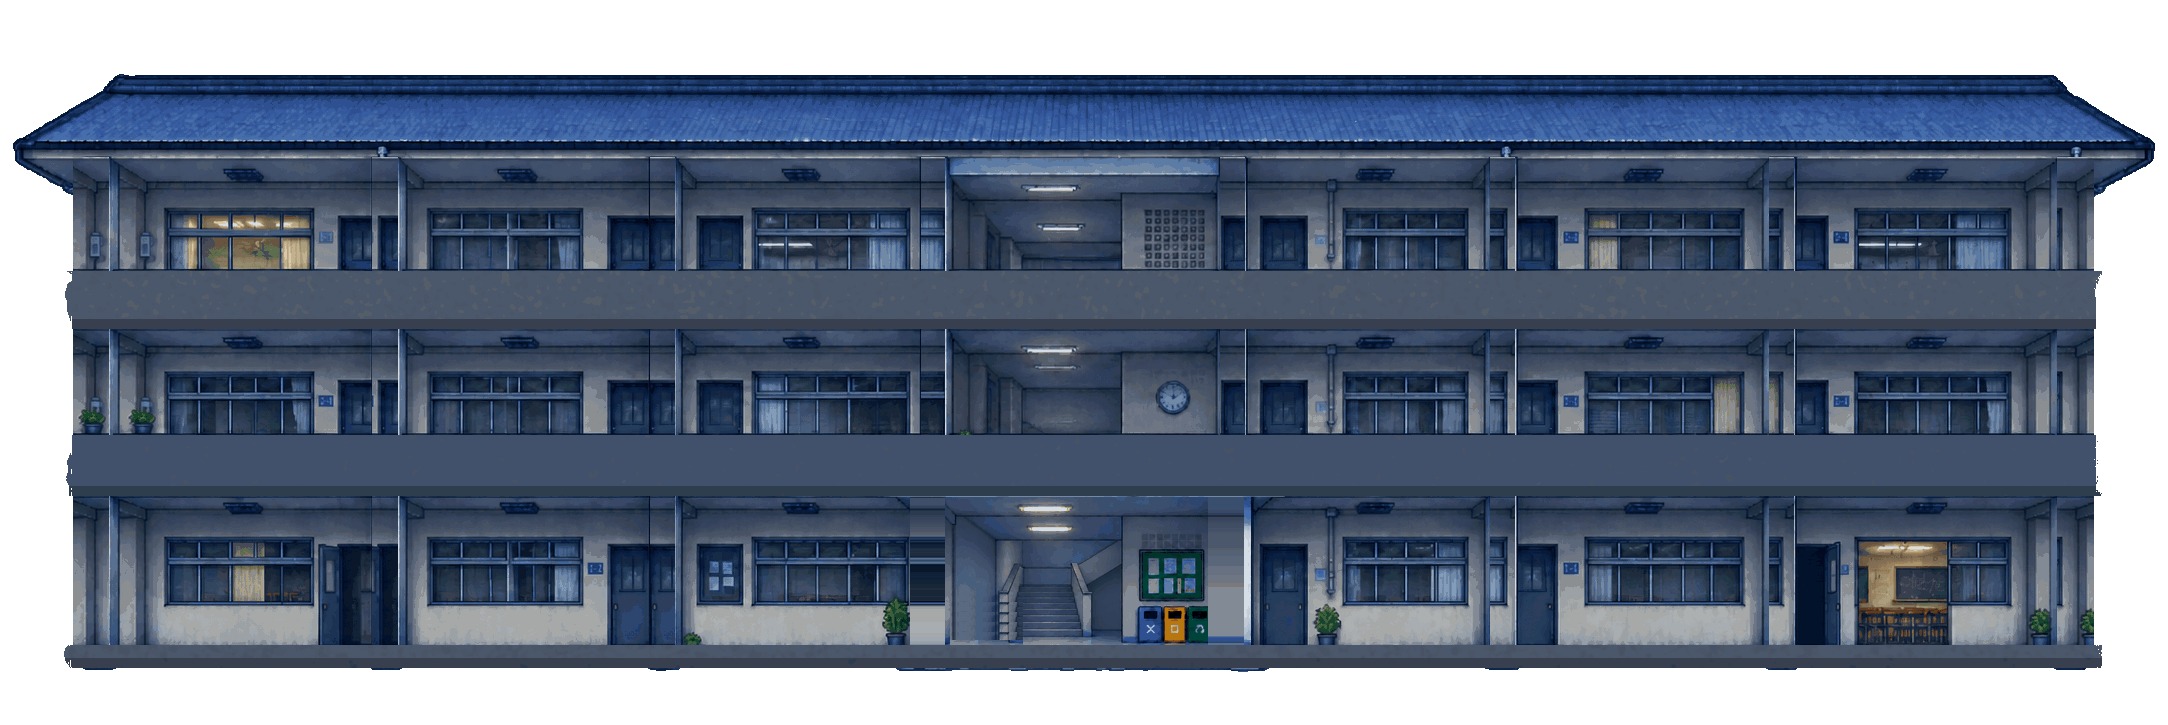
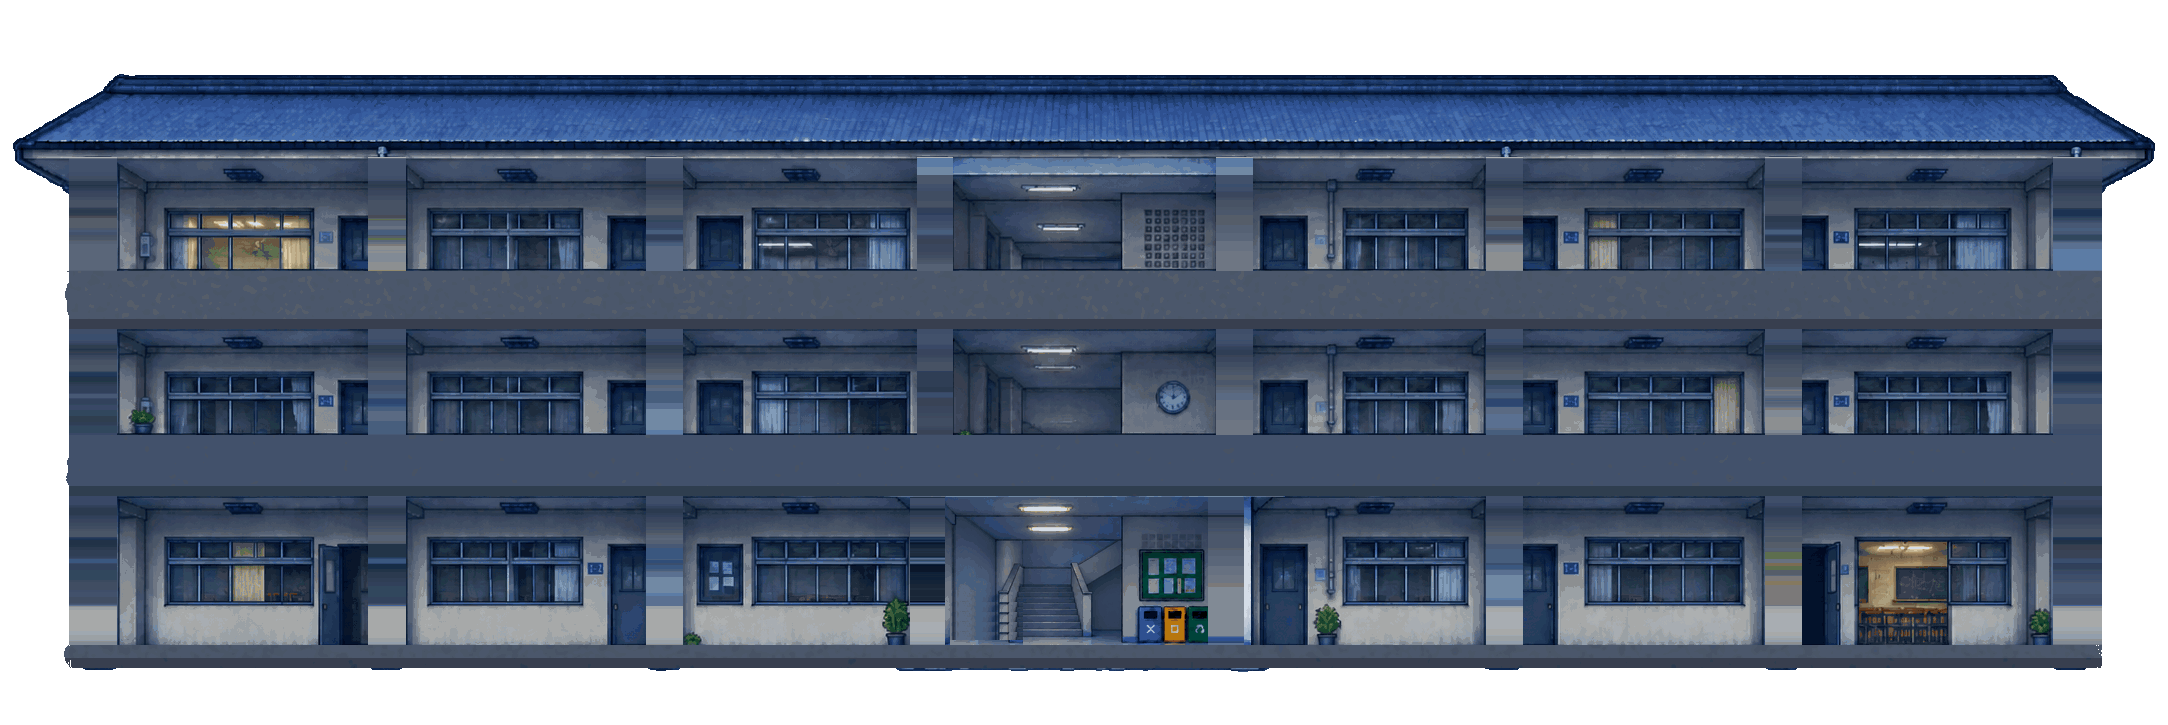
School paint: plain wall behind the pillars
The wall behind each pillar was a copy of the strip beside it, so half
doors, window edges, the downpipe and seam lines showed on the classroom
wall once the pillar stood in front of it. It is now each row's plain
wall (the brighter half of the wall on both sides, median-smoothed),
taken a few pixels wider to drop the pillar's outline and downpipe.

Claude-Session: https://claude.ai/code/session_01CetL5zkYvFPaRRM6Eyxn95

diff --git a/tools/make_building_layers.py b/tools/make_building_layers.py
@@ -85,10 +85,19 @@ def make_palette(img):
 
 
 def fill_from_side(img, x0, x1, y0, y1, side):
-    """Continue the wall beside a narrow box across it (copy the strip next to it, feathered)."""
-    w, gap = x1 - x0, 14                 # skip the corner shading painted right next to the pillar
-    src = img[y0:y1, x0 - w - gap:x0 - gap] if side < 0 else img[y0:y1, x1 + gap:x1 + w + gap]
-    img[y0:y1, x0:x1] = src
+    """Wall behind a pillar: each row is the median of the wall on both sides of it (skipping the
+    corner shading next to the pillar), so no half door, window edge or seam line is copied in."""
+    x0, x1 = x0 - 4, x1 + 8                 # the pillar's outline, edge highlight and downpipe too
+    gap, reach = 12, 90
+    left = img[y0:y1, max(0, x0 - gap - reach):x0 - gap].astype(float)
+    right = img[y0:y1, x1 + gap:x1 + gap + reach].astype(float)
+    band = np.concatenate([left, right], 1)
+    # the plain wall is the brighter half of each row (doors, windows and frames are darker)
+    lum = band[..., :3].mean(2)
+    keep = lum >= np.median(lum, axis=1, keepdims=True)
+    rows = np.array([np.median(band[r][keep[r]], axis=0) for r in range(band.shape[0])])
+    rows = cv2.medianBlur(rows[None].astype(np.uint8), 9)[0].astype(float)   # no stripes from frames
+    img[y0:y1, x0:x1] = rows[:, None, :].astype(np.uint8)
 
 
 def fill_rows(img, y0, y1, wall):
